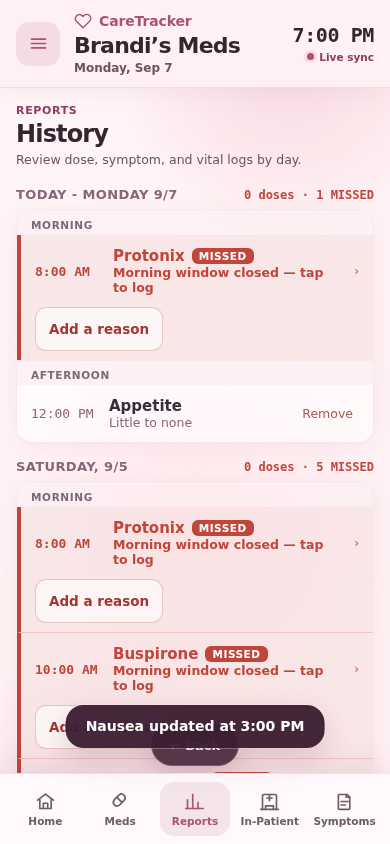
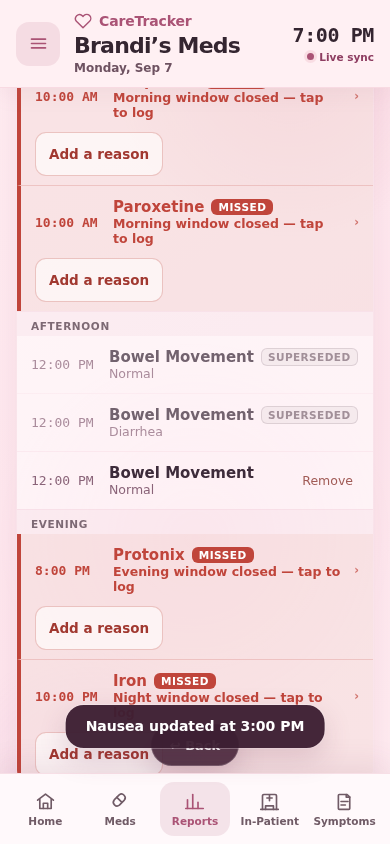
v72 WIP: scanner covers History/Bowel/Appetite; pm.py suite-record rule; Enhancer pass 04
Claude-Session: https://claude.ai/code/session_01YLK2mDPJLJLCZfexLETuMn

diff --git a/pm.py b/pm.py
@@ -241,6 +241,34 @@ if _ver:
             else:
                 notes.append("render audit recorded for %s (outputs/RENDER-%s.md)" % (_ver, _ver))
 
+# --- 7b. EVERY SUITE MUST HAVE BEEN RUN (added 2026-09-07) ------------------------------------
+# export-test was dead from v64 to v70 and nobody ran it; overflow-scan was blindfolded for three
+# releases. A suite nobody runs is a check that cannot fail. harness/run-all.sh runs every suite and
+# writes outputs/SUITES-<version>.md; a changed index.html without that record, or a record carrying
+# a FAIL or ERROR row that is not marked EXEMPT with a written reason, blocks the release.
+if _ver:
+    _changed_s, _rc_s = sh("git -C %s diff --name-only origin/main 2>/dev/null" % REPO)
+    if _rc_s == 0 and "index.html" in _changed_s.split():
+        _rec = os.path.join(REPO, "outputs", "SUITES-%s.md" % _ver)
+        if not os.path.exists(_rec):
+            blockers.append("NOBODY RAN THE SUITES — index.html changed but there is no\n"
+                            "    outputs/SUITES-%s.md. Run harness/run-all.sh and commit the record." % _ver)
+        else:
+            _bad = []
+            for _ln in open(_rec, encoding="utf-8").read().splitlines():
+                _cells = [c.strip() for c in _ln.strip().strip("|").split("|")]
+                if len(_cells) < 3 or not _cells[0].endswith(".mjs"): continue
+                if _cells[1] in ("FAIL", "ERROR"):
+                    _bad.append("%s -> %s" % (_cells[0], _cells[1]))
+                elif _cells[1] == "EXEMPT" and len(_cells[2]) < 20:
+                    _bad.append("%s -> EXEMPT with no written reason" % _cells[0])
+            if _bad:
+                blockers.append("A SUITE IS RED in outputs/SUITES-%s.md — fix it, or mark the row EXEMPT with a reason\n"
+                                "    of at least twenty characters (an exemption nobody wrote down is an oversight):\n      %s"
+                                % (_ver, "\n      ".join(_bad)))
+            else:
+                notes.append("every suite recorded for %s (outputs/SUITES-%s.md)" % (_ver, _ver))
+
 # --- 8. THE NOTES MUST MOVE WITH THE CODE ------------------------------------------------------
 # Aaron, 2026-08-24: "we need to make sure that notes are being updated each final push and commit."
 # Documentation failures are SILENT -- nothing breaks when a changelog goes stale, so no amount of

diff --git a/outputs/ENHANCER-PASS-04.md b/outputs/ENHANCER-PASS-04.md
@@ -1,0 +1,46 @@
+# Enhancer pass 04 — v72, run BEFORE the build on the screens it touches (Rule 1.5)
+
+Screens v72 changes: **Home** (bowel banner, bowel and appetite end-of-day cards), **Symptoms** tab,
+**History**, **Reports → Bowel Movement**, **Reports → Appetite**.
+
+## The table, read off the real controls (v71)
+
+| Screen | Add | Add for another day | Correct | Remove |
+|---|---|---|---|---|
+| Home bowel card | today only, once | no | no — the card hides once answered | no |
+| Home bowel banner | — | — | the latest answered day only, and only while an "issue" is active | no |
+| Home appetite card | today only, once | no | no — hides once answered | no |
+| Symptoms tab | yes | yes (date in the modal) | yes (Edit) | yes (Remove) — but it was a delete the rules refuse past 48h |
+| Reports → Bowel Movement | no | no | no | yes (Remove per row) — same refused delete |
+| Reports → Appetite | no | no | no | yes (Remove per row) — same refused delete |
+| History | — | — | no | yes, on bowel/appetite/symptom rows at any age — same refused delete |
+
+Correction to pass 03: both report screens DO carry a Remove per row. Pass 03 said "no controls at
+all"; it did not read the labels. This is the mistake Rule 2.6 warns about, made by the role itself.
+
+## What v72 builds (the correctness fix — Aaron's pick, standing queue)
+
+Every path in the table that "corrects" or "removes" a daily answer or a symptom now appends —
+a superseding document or a tombstone — and none of them can fail past 48 hours or resurrect an
+older version. The delete path is gone from all of them.
+
+## Proposed, sizes attached — Aaron picks. NOT built in v72.
+
+| # | Change | Size | Recommend |
+|---|---|---|---|
+| A | **"Change answer" on the Bowel Movement and Appetite report rows.** Today the only way to change a bowel answer is the issue banner, and there is no way at all to change an appetite answer once given — the card hides. With v72's append model this is one control per row, reusing the Home card's own handlers. | S each | Yes, next |
+| B | **"Log for another day" on both reports**, matching Weight and Paracentesis (v66) — a missed evening question can be answered the next morning. | S each | Yes, with A |
+| C | **History's Remove on a corrected weight or period marker.** Still a plain delete (since v69/v70): refused past 48h, and on a fresh correction it would delete the correction and resurrect the reading it replaced. Same fix as v72 applied to weight and cycle rows in History: route to their tombstones. | S | Yes — it is the last delete-based path on a superseded type |
+| D | The History day summary counted a bowel answer, an appetite answer and a symptom note as **doses**. | — | Fixed in v72 (one filter); noted here because it is a number on a screen that was untrue |
+
+## Read out loud — the empty states on the touched screens
+
+- Reports → Bowel Movement: *"Review bowel movement history logged from Home."* — the app saying
+  the screen cannot log. Item A/B.
+- Reports → Appetite: same sentence. Same item.
+
+## Exempt, said out loud
+
+- Legacy same-day duplicates written before v72 still tie exactly as they did in v71 (the later
+  document wins). That cannot be repaired retroactively without editing documents, which the rules
+  forbid. The first v72 answer for that day settles it for good.

diff --git a/outputs/SUITES-v72.md b/outputs/SUITES-v72.md
@@ -1,0 +1,18 @@
+# Suite record — v72 — 2026-09-07 04:35 UTC
+
+Every browser suite in `harness/`, run by `harness/run-all.sh`. A row reading FAIL or ERROR blocks
+the release in `pm.py` unless it is changed to EXEMPT with a reason of at least twenty characters.
+
+| Suite | Result | Last line |
+|---|---|---|
+| cal-test.mjs | ERROR | } |
+| chemo-offset-test.mjs | PASS | 17/17 checks passed |
+| daily-supersede-test.mjs | PASS | 37/37 checks passed |
+| deactivate-test.mjs | ERROR | No such file: /home/user/care-tracker/harness/work/index.html |
+| encbackup-test.mjs | PASS | 16/16 checks passed |
+| enhance-test.mjs | PASS | 37/37 checks passed |
+| eod-test.mjs | PASS | 11/11 checks passed |
+| export-test.mjs | ERROR | No such file: /home/user/care-tracker/harness/work/index.html |
+| glass-test.mjs | PASS | 7/7 checks passed |
+| inpatient-window-test.mjs | PASS | 10/10 checks passed |
+| iosshare-test.mjs | PASS | 7/7 checks passed |
